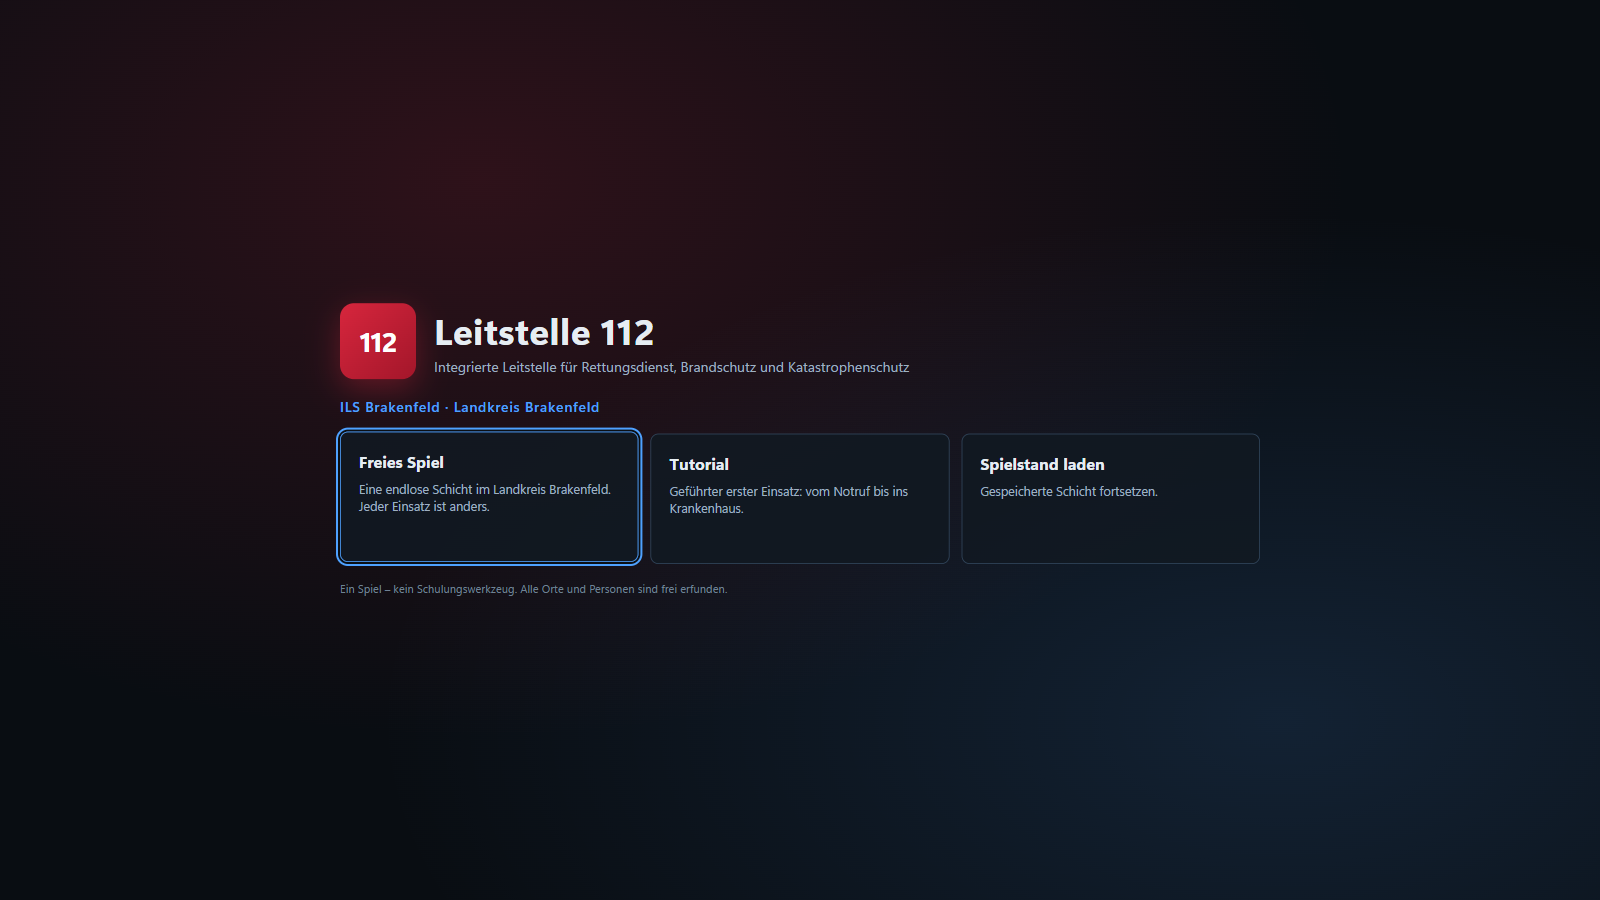
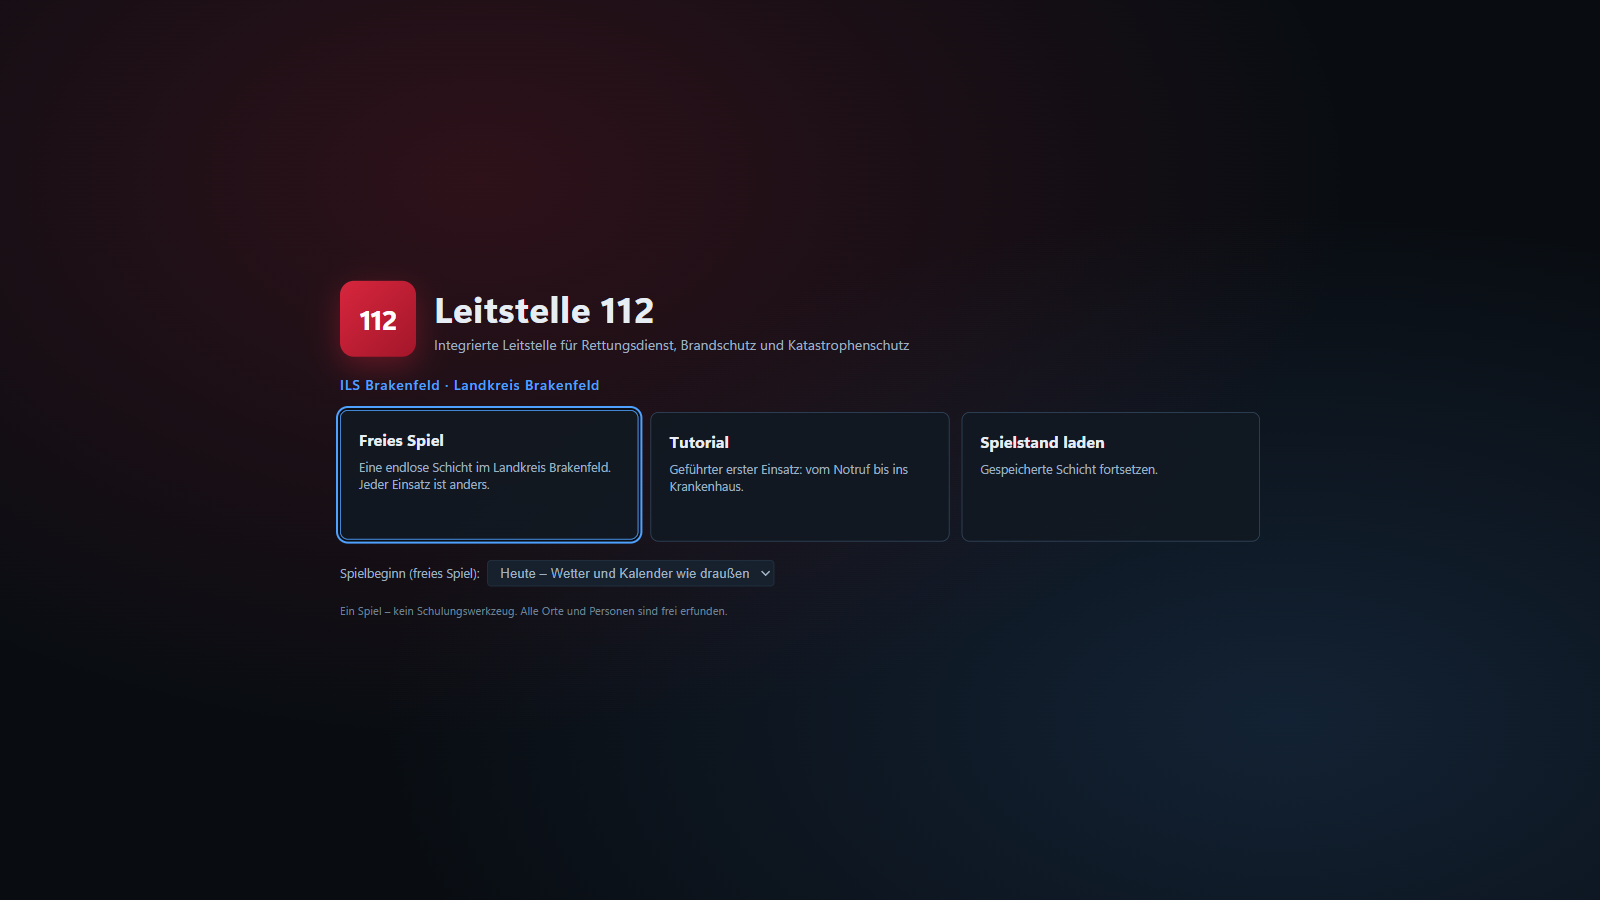
docs: Welt-Dynamik dokumentieren, Screenshots, Version 0.5.0
- docs/domain/welt.md mit Wetter, Kalender, Ereignissen, Regie und
  Luftrettung; Zeit-, Fahrzeit-, Glossar- und Regionsdoku ergänzt
- E2E startet das freie Spiel im Sommer und prüft die Wetteranzeige
- CHANGELOG 0.5.0, Roadmap und PLAN-Stand

Changed region(s): [[0.1875, 0.3111, 0.5625, 0.6844], [0.5938, 0.4667, 0.7188, 0.56]]

diff --git a/e2e/app.spec.ts b/e2e/app.spec.ts
@@ -66,8 +66,9 @@ test('Startbildschirm und Tutorial', async () => {
   await page.getByTestId('start-tutorial').click();
   await expect(page.getByTestId('tutorial-coach')).toBeVisible();
   await expect(page.getByTestId('start-screen')).toBeHidden();
-  // 13 Rettungsdienst- (RTW, NEF, KTW, ITW) und 15 Feuerwehrfahrzeuge.
-  await expect(page.getByTestId('vehicle-row')).toHaveCount(28);
+  // 13 Rettungsdienst- (RTW, NEF, KTW, ITW), ein Hubschrauber und 15 Feuerwehrfahrzeuge.
+  await expect(page.getByTestId('vehicle-row')).toHaveCount(29);
+  await expect(page.getByTestId('weather-chip')).toBeVisible();
 });
 
 test('Takt, Pause und Zeitraffer', async () => {
@@ -152,10 +153,13 @@ test('Auswertung zeigt die laufende Schicht', async () => {
 test('Logistik: Transportaufträge, Kliniken und Status 6', async () => {
   // Freies Spiel: Zum Schichtbeginn liegen vorbestellte Krankentransporte vor.
   await page.getByTestId('menu-new').click();
+  // Sommerbeginn: anderes Wetter und andere Lage als im Training (ADR-0016).
+  await page.getByTestId('start-preset').selectOption('summer');
   await page.getByTestId('start-free').click();
   await expect(page.getByTestId('start-screen')).toBeHidden();
   await page.getByTestId('tab-orders').click();
-  await expect(page.getByTestId('order-row')).toHaveCount(5);
+  // Vorbestellte Aufträge: werktags fünf, am Wochenende weniger.
+  await expect(page.getByTestId('order-row').first()).toBeVisible();
   await page.getByTestId('order-row').first().getByRole('button').click();
   await expect(page.getByTestId('dispatch-dialog')).toBeVisible();
   await page.getByTestId('alarm').click();

diff --git a/docs/domain/welt.md b/docs/domain/welt.md
@@ -1,0 +1,88 @@
+# Welt-Dynamik (seit 0.5.0)
+
+Daten: [`content/base/welt.yaml`](../../content/base/welt.yaml) und
+[`content/base/einstellungen.yaml`](../../content/base/einstellungen.yaml) (`weather`, `director`,
+`daylight`, `air`, `calls.weekdayFactor`). Entscheidung: [ADR-0016](../adr/0016-welt-dynamik.md).
+Alle Faktoren sind **Annahmen** für ein glaubwürdiges Spiel. Sie sind keine statistischen
+Auswertungen eines realen Rettungsdienstbereichs.
+
+Grundsatz: Die Welt verschiebt **Raten und Gewichte**. Sie erfindet keine Einsätze, die es sonst
+nicht gäbe, und ändert keine Physik.
+
+## Wetter
+
+Die Wetterlage hält 3–8 Stunden. Beim Wechsel bleibt sie mit 40 % gleich, sonst wird sie nach dem
+Klima des Monats neu gewählt. Die Temperatur passt zur Lage: Hitze erst ab 30 °C, Schnee und Glätte
+höchstens bei 1 °C.
+
+| Wetterlage | Fahrzeit | Aufkommen | Hubschrauber | Einsatzmix (Faktor)                               |
+| ---------- | -------- | --------- | ------------ | ------------------------------------------------- |
+| Klar       | normal   | normal    | fliegt       | –                                                 |
+| Bewölkt    | normal   | normal    | fliegt       | –                                                 |
+| Regen      | +9 %     | +4 %      | fliegt       | Verkehrsunfall ×1,3                               |
+| Gewitter   | +18 %    | +12 %     | **am Boden** | Baum auf Fahrbahn ×8, Dachstuhlbrand ×1,6         |
+| Nebel      | +22 %    | +3 %      | **am Boden** | Verkehrsunfall ×1,6                               |
+| Schneefall | +39 %    | +8 %      | **am Boden** | Sturz ×1,6, Verkehrsunfall ×1,8, Eingeklemmt ×1,8 |
+| Glätte     | +67 %    | +25 %     | fliegt       | Sturz ×2,6, Verkehrsunfall ×2,2                   |
+| Hitze      | normal   | +15 %     | fliegt       | Exsikkose ×6, Atemnot ×1,3, Flächenbrand ×12      |
+
+Die Fahrzeit-Aufschläge ergeben sich aus dem Geschwindigkeitsfaktor (z. B. 0,6 bei Glätte). Sie
+gelten für alle Straßenklassen und auch mit Sonderrechten. Wie oft welche Lage vorkommt, steht
+je Monat in `climate`. Glätte und Schnee gibt es von November bis März, Hitze von Juni bis August.
+
+## Kalender
+
+- **Wochentage:** Freitag ×1,04, Samstag ×1,1, Sonntag ×1,04, Dienstag und Mittwoch ×0,96
+  (Annahme: mehr Freizeitunfälle und Alkohol am Wochenende).
+- **Feiertage** (Neujahr, Karfreitag, Ostermontag, 1. Mai, Himmelfahrt, Pfingstmontag,
+  Fronleichnam, 3. Oktober, Weihnachten) zählen wie ein **Sonntag**: Verkehr wie am Wochenende,
+  werktags besetzte KTW bleiben auf der Wache, Krankentransporte ×0,35. Ostern wird ohne
+  Systemkalender rein rechnerisch bestimmt (Algorithmus nach Meeus/Jones/Butcher).
+- **Sommerzeit:** Die Uhr springt am letzten Sonntag im März von 2 auf 3 Uhr und läuft am letzten
+  Sonntag im Oktober die Stunde von 2 bis 3 Uhr zweimal. Die Nachtschicht ist dann 11 bzw.
+  13 Stunden lang – wie in einer echten Leitstelle.
+
+## Ereignisse der Weltlage
+
+| Ereignis                 | Wann                              | Wirkung                                                       |
+| ------------------------ | --------------------------------- | ------------------------------------------------------------- |
+| Silvester                | 31.12., 18 Uhr, 12 Stunden        | Aufkommen ×1,9, Feuerwerksverletzungen, Container-/PKW-Brände |
+| Volksfest                | Mai–Sept., Fr–So, 12 % je Tag     | in einem Ort ab 3.000 Einw.: 35 % der Notrufe, Alkohol ×4     |
+| Weihnachtsmarkt          | Dezember, Fr–So, 30 % je Tag      | Ort ab 9.000 Einw.: 25 % der Notrufe, Alkohol ×2,5, Sturz     |
+| Grippewelle              | Dez.–März, 3 % je Tag, 10–20 Tage | Aufkommen ×1,12, Atemnot ×1,7                                 |
+| Baustelle (Vollsperrung) | 25 % je Tag, 1–7 Tage             | Straßenabschnitt gesperrt, Umleitung                          |
+| Veranstaltungssperrung   | April–Sept., Sa/So, 20 % je Tag   | Straßenabschnitt für einige Stunden gesperrt                  |
+
+Laufende Ereignisse zeigt die Kopfzeile, Beginn und Ende stehen im Funkprotokoll. Gesperrte
+Abschnitte markiert die Karte mit ⛔. Der Router macht sie 15-mal langsamer: Fahrzeuge fahren
+in aller Regel einen Umweg, im Notfall kommen sie mit Absprache aber noch durch.
+
+## Einsatz-Regie
+
+Das Aufkommen wandert in Phasen von 30–90 Minuten linear zu einem neuen Faktor zwischen 0,75 und
+1,25. So wechseln ruhige Abschnitte und Häufungen, wie sie Disponenten aus der Praxis kennen. Die
+Regie wirkt nur auf die Rate, nie auf einzelne Einsätze (ADR-0014, Punkt 8).
+
+## Luftrettung
+
+Der Rettungshubschrauber **RTH 1/10-1** steht an der Luftrettungsstation Hohenwarte am
+nordöstlichen Kreisrand und bringt einen Notarzt mit.
+
+- **Flug:** Luftlinie mit 220 km/h, Start 2–4 Minuten, Landung 2–3 Minuten. Staus und Glätte
+  spielen keine Rolle – dafür Wetter und Licht.
+- **Verfügbar** nur bei Tageslicht laut Monatstabelle (z. B. Dezember 8–16 Uhr, Juni 5–21 Uhr)
+  und bei Flugwetter. Bei Nebel, Gewitter und Schneefall bleibt er am Boden (Status 6).
+- **Einsätze außerhalb:** Zu jeder vollen Stunde ist er mit 12 % für 45–90 Minuten im
+  Nachbarbereich gebunden.
+- Die AAO schlägt den RTH als **Alternative zum NEF** vor, wenn er schneller am Einsatzort ist.
+- Transportiert wird vorrangig mit dem RTW. Der RTH transportiert nur, wenn kein RTW vor Ort ist.
+  Bei schweren Fällen fliegt sein Notarzt zur Zielklinik nach.
+
+## Spielbeginn
+
+Im Startbildschirm lässt sich der Beginn des freien Spiels wählen:
+
+- **Heute:** Wetter und Kalender wie draußen.
+- **Winter:** 20. Januar, Glätte, Schnee, Grippewelle möglich.
+- **Sommer:** 18. Juli, Hitze, Gewitter, Volksfeste.
+- **Silvesternacht:** 31. Dezember, 19 Uhr.

diff --git a/docs/domain/glossar.md b/docs/domain/glossar.md
@@ -4,6 +4,7 @@
 | ----------------- | ---------------------------------------------------------------------------------------------------- | --------------------- |
 | AAO               | Alarm- und Ausrückeordnung: welche Fahrzeuge zu welchem Stichwort alarmiert werden                   | `Keyword.aao`         |
 | Ausrückzeit       | Zeit von der Alarmierung bis zum Losfahren (Status 3)                                                | `turnout`             |
+| Einsatz-Regie     | Schwankung des Aufkommens in Phasen innerhalb fester Grenzen (ADR-0014)                              | `director`            |
 | Disponent/in      | Fachkraft in der Leitstelle, die Notrufe annimmt und Einsätze führt                                  | –                     |
 | Einsatz           | Ein Ereignis, zu dem Kräfte alarmiert werden                                                         | `incident`            |
 | Erstbefund        | Erste Rückmeldung der Einsatzkräfte vor Ort                                                          | `assessed`, `finding` |
@@ -19,7 +20,9 @@
 | NAW               | Notarztwagen: RTW mit Notarzt an Bord, transportiert selbst                                          | `base:naw`            |
 | NEF               | Notarzteinsatzfahrzeug: bringt den Notarzt zum Einsatzort (Rendezvous-System)                        | `base:nef`            |
 | Rendezvous-System | Notarzt und RTW fahren getrennt und treffen sich am Einsatzort                                       | –                     |
+| RTH               | Rettungshubschrauber: Notarzt aus der Luft, nur bei Tageslicht und Flugwetter                        | `base:rth`            |
 | RTW               | Rettungswagen: Notfallversorgung und Transport                                                       | `base:rtw`            |
+| Sperrung          | Gesperrter Straßenabschnitt (Baustelle, Veranstaltung), Fahrzeuge werden umgeleitet                  | `closure`             |
 | Sonderrechte      | Fahrt mit Blaulicht und Martinshorn (§ 35 und § 38 StVO)                                             | `emergency`           |
 | Sprechwunsch      | Status 5: Das Fahrzeug möchte die Leitstelle sprechen                                                | `requestDestination`  |
 | Stichwort         | Einsatzkategorie, die die AAO auslöst (z. B. „RD 2“)                                                 | `Keyword`             |
@@ -27,6 +30,7 @@
 | Tracer-Diagnose   | Zeitkritische Leitdiagnose mit Zeitfenster (Schlaganfall, ACS, Polytrauma, Reanimation)              | `tracer`              |
 | Verlegung         | Transport von einer Klinik in eine andere                                                            | `fromHospitalId`      |
 | Vorhaltung        | Welche Fahrzeuge zu welchen Zeiten besetzt sind                                                      | `service`             |
+| Weltlage          | Wetter und laufende Ereignisse (Volksfest, Grippewelle, Silvester)                                   | `WorldState`          |
 | Wahre Lage        | Die tatsächliche Situation hinter einem Notruf, zunächst verborgen                                   | `Truth`               |
 | Zielklinik        | Krankenhaus, das den Patienten aufnimmt                                                              | `hospitalId`          |
 

diff --git a/CHANGELOG.md b/CHANGELOG.md
@@ -6,6 +6,33 @@ Versionierung nach [Semantic Versioning](https://semver.org/lang/de/).
 
 ## [Unreleased]
 
+## [0.5.0] – 2026-11-24 – Welt-Dynamik (M8)
+
+### Hinzugefügt
+
+- **Wetter nach Klima und Jahreszeit:** Klar, Regen, Gewitter, Nebel, Schneefall, Glätte und
+  Hitze mit Temperatur. Das Wetter verlängert Fahrzeiten (Glätte +67 %), ändert das Aufkommen und
+  verschiebt den Einsatzmix: Stürze bei Glätte, Bäume auf der Fahrbahn bei Gewitter, Exsikkose
+  und Flächenbrände bei Hitze.
+- **Ereignisse der Weltlage:** Silvester, Volksfeste, Weihnachtsmärkte, Grippewellen, Baustellen
+  und Veranstaltungen mit Straßensperrung. Die Karte zeigt Sperrungen, der Router leitet um.
+- **Feiertage und Wochenmuster:** gesetzliche Feiertage zählen wie Sonntage (Verkehr, KTW-Dienst,
+  Krankentransporte). Freitag und Wochenende bringen etwas mehr Notrufe.
+- **Sommerzeit (#33):** Die Uhr springt Ende März und Ende Oktober; der Kern läuft gleichmäßig.
+- **Einsatz-Regie:** Das Aufkommen wechselt in Phasen zwischen Ruhe und Spitzen, höchstens ± 25 %.
+- **Rettungshubschrauber** an der Luftrettungsstation Hohenwarte: fliegt Luftlinie, nur bei
+  Tageslicht und Flugwetter, zeitweise im Nachbarbereich gebunden. Die AAO schlägt ihn als
+  Alternative zum NEF vor, wenn er schneller ist.
+- **Neue Einsätze:** Exsikkose, Verletzung durch Feuerwerkskörper, Flächen- und Waldbrand.
+- **Kopfzeile** mit Wetter, Temperatur, Feiertag und laufenden Ereignissen; Wetterwechsel und
+  Ereignisse im Funkprotokoll.
+- **Startbildschirm:** Spielbeginn heute, im Winter, im Sommer oder in der Silvesternacht.
+- ADR-0016 und Fachdoku `docs/domain/welt.md`.
+
+### Geändert
+
+- Spielstände haben die Snapshot-Version 4. Spielstände aus 0.4.0 lassen sich nicht laden.
+
 ## [0.4.0] – 2026-11-24 – Rettungsdienst-Logistik (M7)
 
 ### Hinzugefügt
@@ -180,7 +207,8 @@ eigentlichen Sinn – das kommt ab M2/M3.
 - Nach einem Absturz startet die Simulation neu beim Schichtbeginn; Autosave folgt in M4.
 - Der Installer wird nur in der CI gebaut (Richtlinie des Entwicklungsrechners, PLAN Kapitel 9).
 
-[Unreleased]: https://github.com/samuelklsn/leitstelle-112/compare/v0.4.0...HEAD
+[Unreleased]: https://github.com/samuelklsn/leitstelle-112/compare/v0.5.0...HEAD
+[0.5.0]: https://github.com/samuelklsn/leitstelle-112/compare/v0.4.0...v0.5.0
 [0.4.0]: https://github.com/samuelklsn/leitstelle-112/compare/v0.3.0...v0.4.0
 [0.3.0]: https://github.com/samuelklsn/leitstelle-112/compare/v0.2.0...v0.3.0
 [0.2.0]: https://github.com/samuelklsn/leitstelle-112/compare/v0.1.0...v0.2.0

diff --git a/docs/domain/zeit.md b/docs/domain/zeit.md
@@ -1,11 +1,15 @@
 # Spielzeit und Schichten
 
-- Spielzeit sind **ganzzahlige Millisekunden** seit 1970-01-01 00:00 in Ortszeit. Ein Tick ist eine
-  Sekunde (ADR-0004).
+- Spielzeit sind **ganzzahlige Millisekunden** seit 1970-01-01 00:00 in Normalzeit (MEZ). Ein
+  Tick ist eine Sekunde (ADR-0004).
 - Kalenderfelder werden ohne `Date` mit einem Ganzzahl-Algorithmus nach H. Hinnant berechnet.
   Damit ist das Ergebnis auf jedem Rechner bitgleich.
-- **Annahme:** Es gibt keine Sommerzeitumstellung. Die Umstellung kommt mit #33.
-- Ein neues Spiel beginnt zum heutigen Schichtbeginn (07:00 Uhr). Eine Schicht dauert 12 Stunden.
+- **Sommerzeit (seit 0.5.0):** Der Kern rechnet ohne Sprünge in Normalzeit. Erst die Uhrzeit
+  berücksichtigt die Sommerzeit (MESZ): am letzten Sonntag im März springt sie von 2 auf 3 Uhr,
+  am letzten Sonntag im Oktober läuft die Stunde von 2 bis 3 Uhr doppelt. Schichten in diesen
+  Nächten dauern 11 bzw. 13 Stunden (ADR-0016).
+- Ein neues Spiel beginnt zum heutigen Schichtbeginn (07:00 Uhr) – oder, im Startbildschirm
+  gewählt, im Winter, im Sommer oder in der Silvesternacht (19 Uhr). Eine Schicht dauert 12 Stunden.
   Zum Schichtwechsel hält das Spiel an, zeigt die Auswertung und speichert automatisch. Danach geht
   es endlos weiter.
 - Autosave alle 5 Spielminuten (die letzten 3 bleiben erhalten), beim Beenden und zum Schichtende.

diff --git a/README.md b/README.md
@@ -96,7 +96,8 @@ auf Leitung 2 klingelt schon der nächste Notruf.
 | M5 Notrufannahme 2.0 | Strukturierte Abfrage, Fehl-, Scherz- und Doppelanrufe, Polizei-Übergaben  | ✅                                                                 |
 | M6 Feuerwehr         | Feuerwachen, B/TH-Stichworte, Lagemeldung, Nachforderung, Brandausbreitung | ✅                                                                 |
 | M7 RD-Logistik       | KTW/ITW, Krankentransporte, Klinikabmeldungen, Status 6, Pausen            | ✅                                                                 |
-| M8 – M12             | Wetter, Mehrmonitor, MANV, Langzeitspiel, Editoren                         | [geplant](https://github.com/samuelklsn/leitstelle-112/milestones) |
+| M8 Welt-Dynamik      | Wetter, Feiertage, Sommerzeit, Ereignisse, Sperrungen, Regie, RTH          | ✅                                                                 |
+| M9 – M12             | Mehrmonitor, MANV, Langzeitspiel, Editoren                                 | [geplant](https://github.com/samuelklsn/leitstelle-112/milestones) |
 
 ## Technik
 

diff --git a/docs/domain/region-brakenfeld.md b/docs/domain/region-brakenfeld.md
@@ -38,6 +38,7 @@ Ergebnis: rund 1.300 Kreuzungen, 2.000 Straßenstücke, 15.000 Hausadressen und
 | Rettungswache Ellerbach          | RTW 2/83-1, RTW 2/83-2, KTW 2/85-1 (Mo–Fr 7–17)                                             |
 | Notarztstandort Klinik Ellerbach | NEF 2/82-1                                                                                  |
 | Rettungswache Tannrode           | RTW 3/83-1, KTW 3/85-1 (Mo–Fr 7–15)                                                         |
+| Luftrettungsstation Hohenwarte   | RTH 1/10-1 (Tageslicht, Flugwetter; fliegt auch für Nachbarbereiche)                        |
 
 | Krankenhaus              | Versorgungsstufe | Fachabteilungen                                                                                             |
 | ------------------------ | ---------------- | ----------------------------------------------------------------------------------------------------------- |

diff --git a/docs/domain/fahrzeiten.md b/docs/domain/fahrzeiten.md
@@ -45,3 +45,12 @@ sind es rund 58 bzw. 49 km/h.
 | Wache, tagsüber                        | 50–90              |
 | Wache, nachts (22–6 Uhr)               | 90–150             |
 | Bereits frei auf der Straße (Status 1) | 10–25              |
+
+## Wetter, Ruhetage und Sperrungen (seit 0.5.0)
+
+- Die Wetterlage multipliziert die Geschwindigkeit aller Straßenklassen, z. B. 0,6 bei Glätte
+  oder 0,82 bei Nebel ([welt.md](welt.md)).
+- An Feiertagen gilt das Verkehrsprofil des Wochenendes.
+- Gesperrte Abschnitte (Baustelle, Veranstaltung) sind 15-mal langsamer. Der Router leitet damit
+  praktisch immer um; im Notfall kommen Einsatzfahrzeuge mit Absprache aber noch durch.
+- Hubschrauber fliegen Luftlinie mit 220 km/h; Start 2–4 und Landung 2–3 Minuten.

diff --git a/docs/domain/README.md b/docs/domain/README.md
@@ -15,4 +15,5 @@ die Issue-Vorlage „Fachliches Feedback“.
 | [zeit.md](zeit.md)                           | Spielzeit, Kalender, Schichten                       |
 | [feuerwehr.md](feuerwehr.md)                 | Feuerwachen, Stichworte, Lagemeldung, Ausbreitung    |
 | [logistik.md](logistik.md)                   | Krankentransport, Kliniken, Dienst, Pausen, Status 6 |
+| [welt.md](welt.md)                           | Wetter, Feiertage, Ereignisse, Regie, Luftrettung    |
 | [region-brakenfeld.md](region-brakenfeld.md) | Der fiktive Landkreis und seine Vorhaltung           |

diff --git a/docs/PLAN.md b/docs/PLAN.md
@@ -344,7 +344,7 @@ Krankenhauses nie negativ; nach Pause ändert sich der Zustand nicht.
 
 ## 6. Meilensteine
 
-**Stand 2026-11-24:** M0–M7 abgeschlossen (v0.4.0: Notrufannahme 2.0, Feuerwehr, RD-Logistik). Nächster Meilenstein: M8.
+**Stand 2026-11-24:** M0–M8 abgeschlossen (v0.5.0: Notrufannahme 2.0, Feuerwehr, RD-Logistik, Welt-Dynamik). Nächster Meilenstein: M9.
 
 Jeder Meilenstein endet lauffähig, getestet, committet, mit CHANGELOG-Eintrag und
 Zusammenfassung an den Product Owner.
